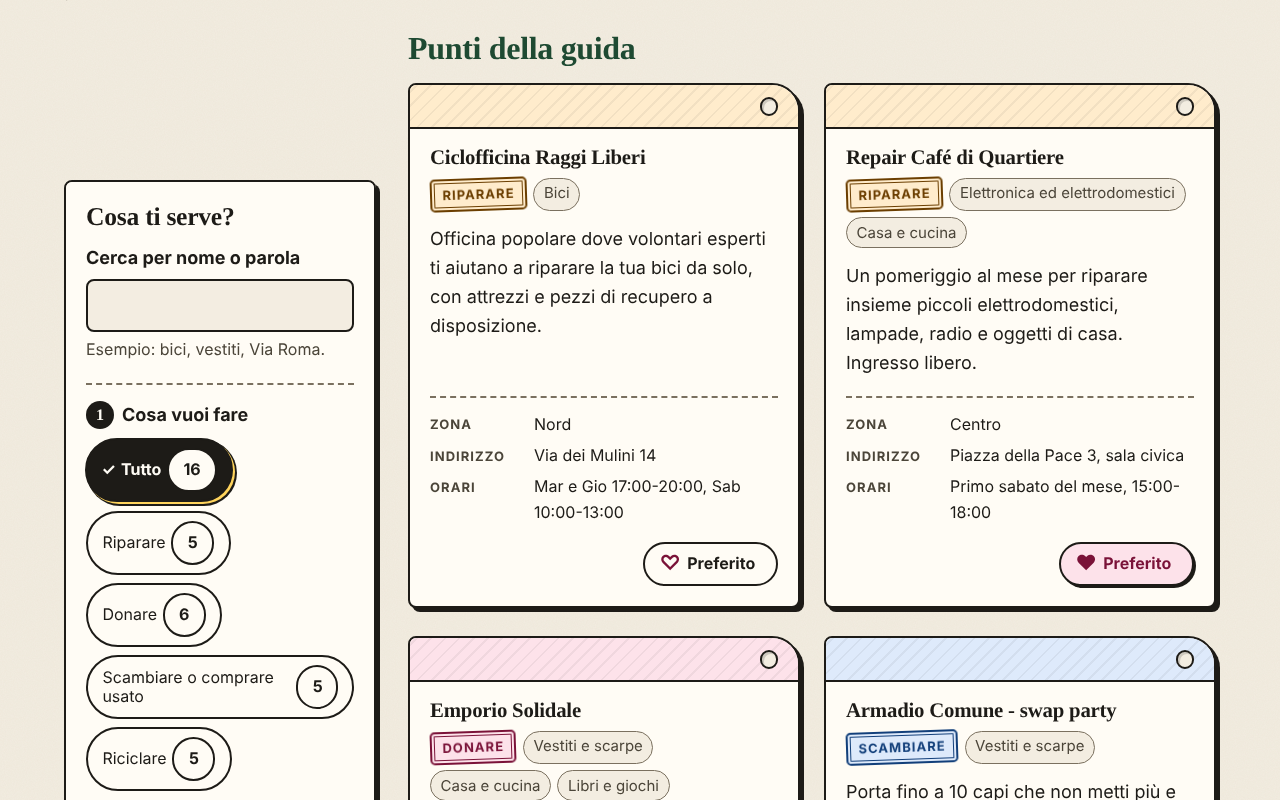
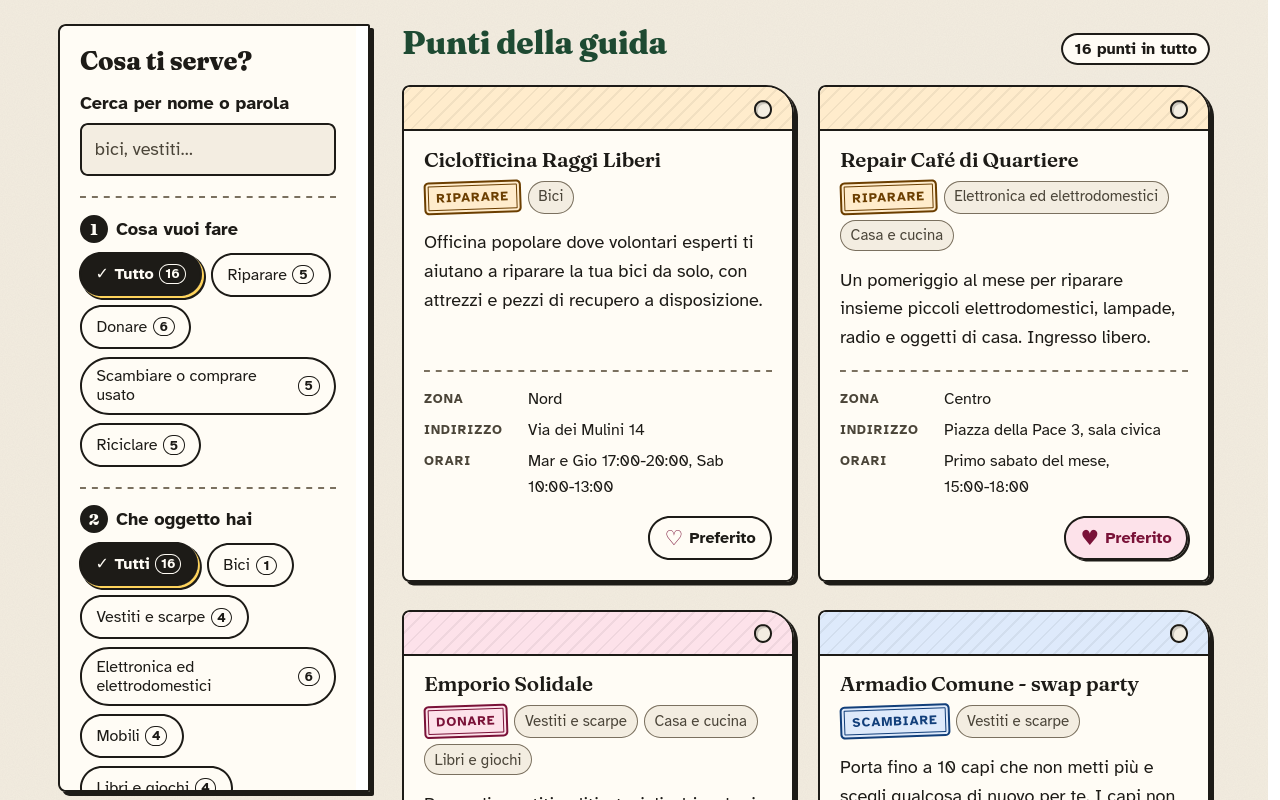
docs: screenshot aggiornati nel README (computer e telefono)

Changed region(s): [[0.0312, 0.0, 1.0, 1.0]]

diff --git a/README.md b/README.md
@@ -6,7 +6,11 @@ Una guida per i cittadini che vogliono dare una seconda vita agli oggetti invece
 
 Sito statico in **HTML, CSS e JavaScript "vanilla"**: nessun framework, nessun back end, nessun database.
 
-![La guida al riuso: filtri a sinistra, schede dei punti a destra](docs/img/screenshot-guida.png)
+![La guida al riuso su computer: filtri a sinistra, schede dei punti a destra](docs/img/screenshot-guida.png)
+
+Sul telefono i filtri si raccolgono dietro il bottone **Filtri**: restano in vista solo la ricerca e i filtri attivi, che si tolgono con un tocco.
+
+<img src="docs/img/screenshot-telefono.png" alt="La guida al riuso sul telefono: ricerca, bottone Filtri con un filtro attivo e numero di punti trovati" width="300">
 
 ```
 docs/index.html            → la guida: ricerca, filtri ed elenco dei punti
@@ -17,7 +21,7 @@ docs/js/script.js          → genera le schede, filtri e ricerca, salva le segn
 docs/js/preferiti.js       → salva e rilegge i punti preferiti (localStorage)
 docs/js/tema.js            → tema chiaro/scuro, con la scelta salvata nel browser
 docs/js/validazione.js     → controlli del modulo di segnalazione, con l'errore sotto ogni campo
-docs/img/                  → favicon, anteprima per i social, screenshot
+docs/img/                  → favicon, anteprima per i social, screenshot (computer e telefono)
 ```
 
 ---
